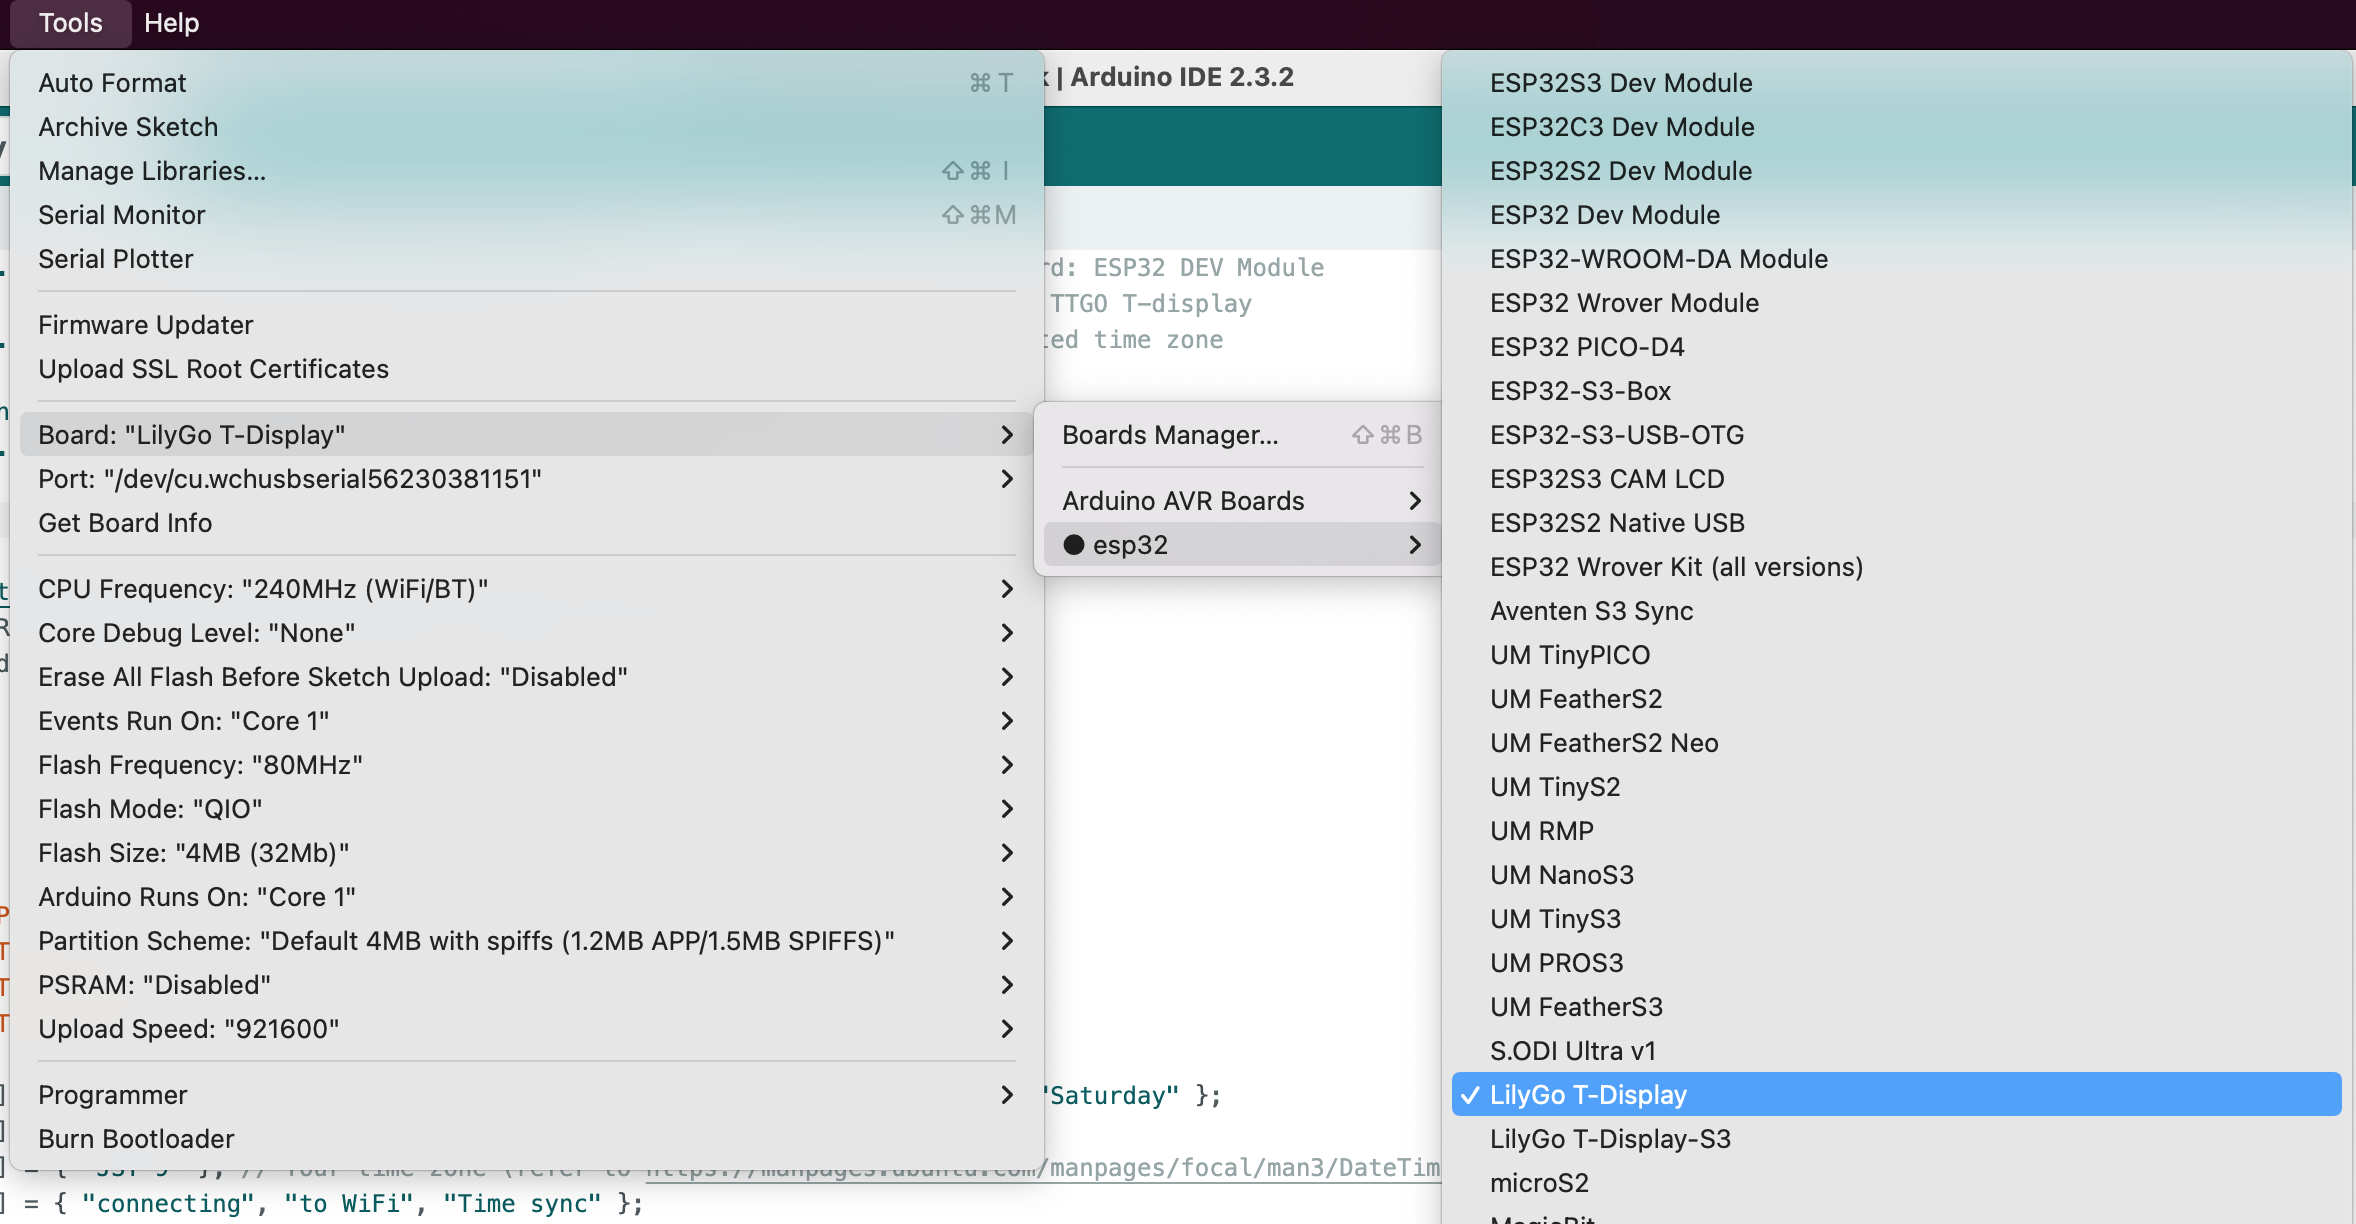
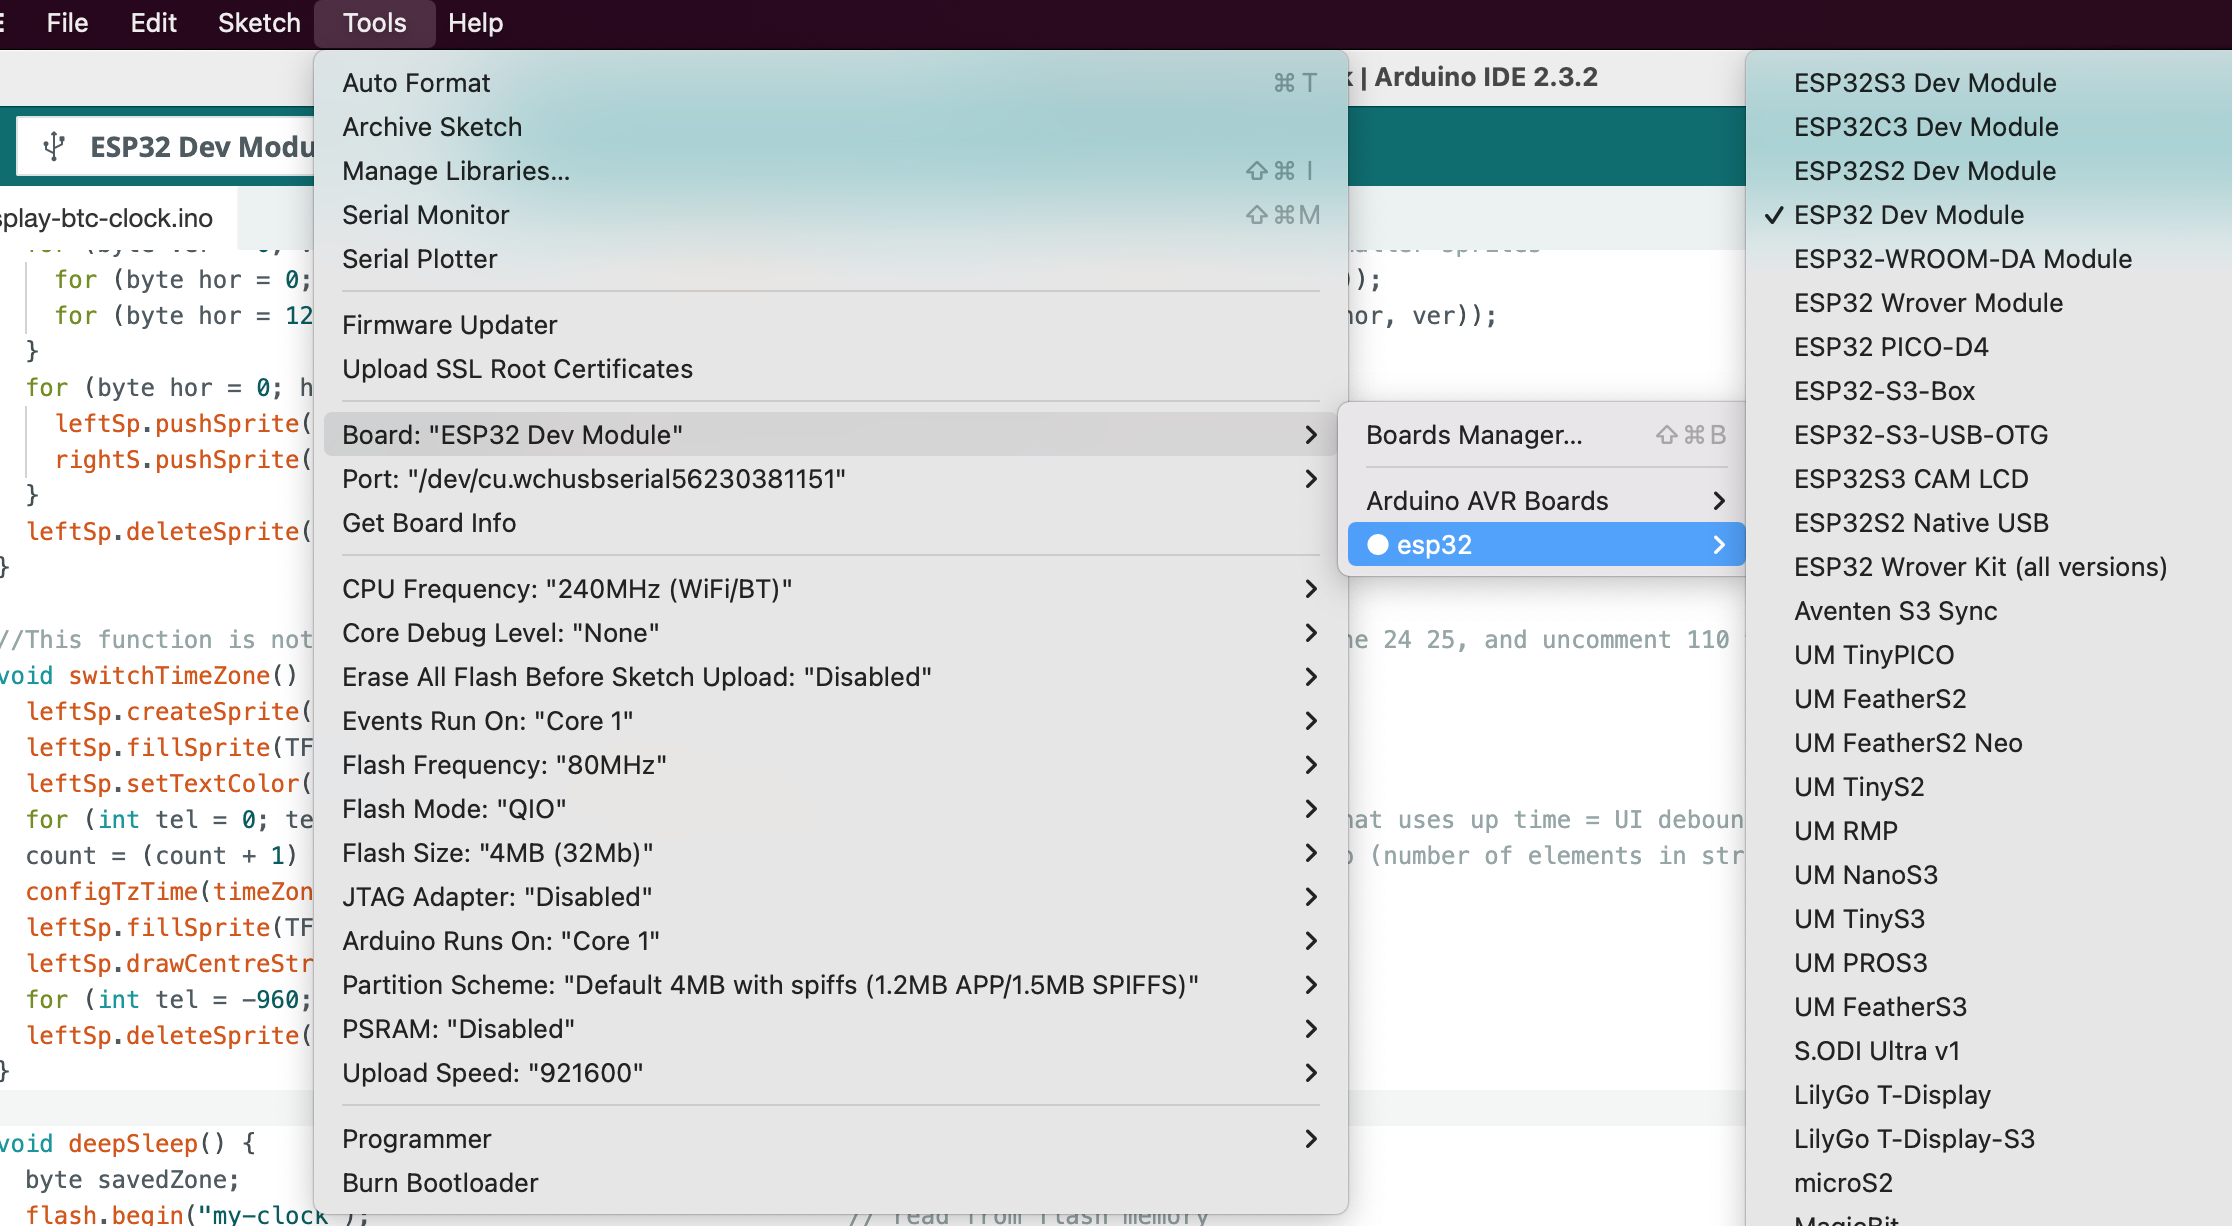
readme formatting

diff --git a/README.md b/README.md
@@ -4,9 +4,9 @@
 
 !["Lilygo t-display case"](https://github.com/codyellingham/lilygo-t-display-btc-clock/blob/master/images/package.jpg?raw=true)
 
-**Setup a live Bitcoin price ticker and clock / date ticker on a LilyGo T-display.**
+**Setup a live Bitcoin price ticker and clock / date display on a LilyGo T-display.**
 
-Combines the Date, clock, and wifi functions of [https://espgo.be/index-en.html](https://espgo.be/index-en.html) with the Bitcoin price tracker of [https://how2electronics.com/bitcoin-price-tracker-using-esp32-oled-display/](https://how2electronics.com/bitcoin-price-tracker-using-esp32-oled-display/ ) 
+Combines the date, clock, and wifi functions of [https://espgo.be/index-en.html](https://espgo.be/index-en.html) with the Bitcoin price tracker of [https://how2electronics.com/bitcoin-price-tracker-using-esp32-oled-display/](https://how2electronics.com/bitcoin-price-tracker-using-esp32-oled-display/ ) 
 
 #### Notes: 
 - This may work with similar LilyGo models, but I have only tested on the LilyGo T-display v1.1
@@ -38,16 +38,17 @@ Libraries to add:
 5. Update the TFT_eSPI user settings by opening the Arduino library folder, located on mac at `[Username]/Documents/Arduino/Libraries/TFT_eSPI/User_Setup_Select.h`
 - Uncomment line 58 "#include <User_Setups/Setup25_TTGO_T_Display.h> " (or whichever specific device it is you have).
 
-5. Download and copy the file `lilygo-t-display-btc-clock/lilygo-t-display-btc-clock.ino` to your Arduino folder at `[Username]/Documents/Arduino/`
+5. Download and open the file `lilygo-t-display-btc-clock/lilygo-t-display-btc-clock.ino` to your Arduino folder at `[Username]/Documents/Arduino/`
   - Change Line 25 to be your City name and Line 26 to your [time zone](https://manpages.ubuntu.com/manpages/focal/man3/DateTime::TimeZone::Catalog.3pm.html)
 
-6. Setup your board: "Tools" > "Board" > "ESP32" > "LilyGo T-Display". The device should now show up as connected in the top left. If not you may also need to try changing the ports to one of the other options from the menu. For me it was '/dev/cu.wchusbserial56230381151`.
+6. Setup your board: "Tools" > "Board" > "ESP32" > "ESP32 Dev Module". The device should now show up as connected in the top left with a USB icon. If this does not work you might need to try changing the ports to one of the other options from the menu. For me it was '/dev/cu.wchusbserial56230381151`.
 !["board settings"](https://github.com/codyellingham/lilygo-t-display-btc-clock/blob/master/images/board-port-settings.png?raw=true)
 All other settings should be OK as defaults.
+If things are not showing up or working as expected try restarting the Arduino IDE or the computer or try a different USB port or cable.
 
 7. Click the "Upload" button.
 !["Upload"](https://github.com/codyellingham/lilygo-t-display-btc-clock/blob/master/images/upload.png?raw=true)
 
 8. The code should verify then upload and the the LilyGo will restart and prompt you to set wifi password by logging in to the temporary access point "Lily" and selecting your wifi network from there.
 
-9. Done
+9. Done.
